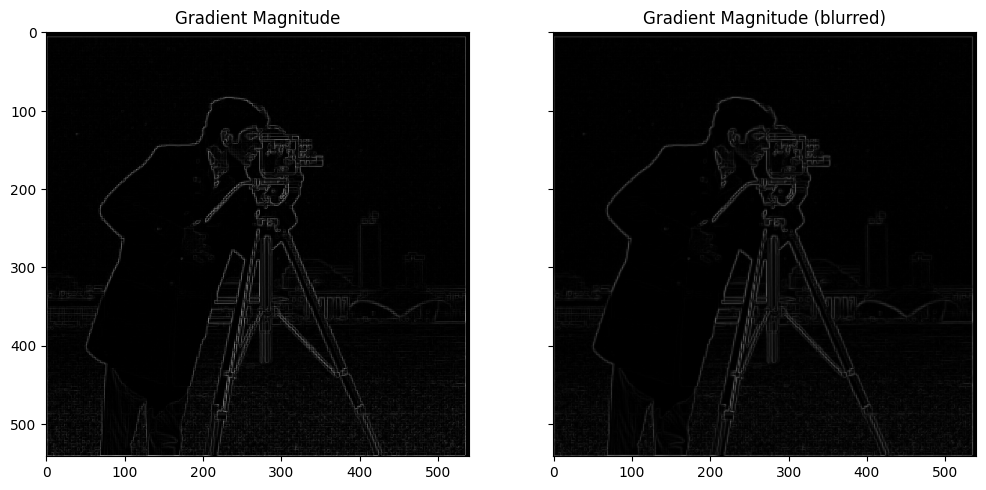
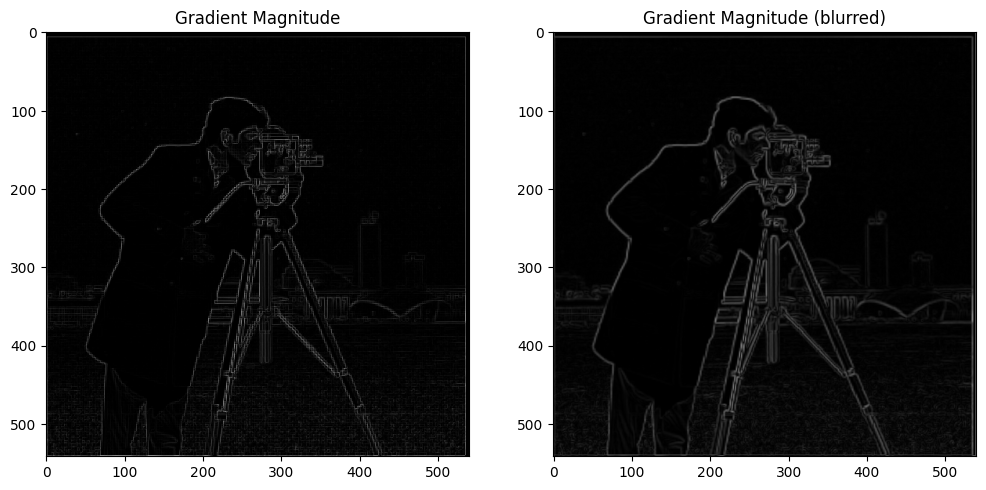
almost done 2.1

diff --git a/_site/project-2/index.html b/_site/project-2/index.html
@@ -135,9 +135,9 @@ getting the big tower in the background in the edge map.</p>
 non-threshold) is how pixelated the image is. One way to fix that while still
 retaining the edges is to run the image through a smoothing process first, then
 compute the gradient. One way to do this is to convolve the image with a <em>Gaussian
-filter</em>. To do this, I used <code class="language-plaintext highlighter-rouge">sk.filters.gaussian()</code> to generate the smoothed
-image, then ran the same convolutions as we did before. A side by side comparison is
-shown below:</p>
+filter</em>. To do this, I used <code class="language-plaintext highlighter-rouge">cv2.getGaussianFilter()</code> to get a 1D Gaussian filter
+then took the outer product with itself to generate a 2D one. Then, I ran the same
+convolutions as before, and this is what we get:</p>
 
 <p align="center">
   <img src="part-1-images/gradient-magnitude-blurred.png" />
@@ -146,8 +146,8 @@ shown below:</p>
   Gaussian filter.   </div> 
 </p>
 
-<p>It’s a little hard to see, but if you look hard enough you can tell that the
-intensity of the lines on the right image are smaller than that of the left. This
+<p>It’s difficult to see, but it is clear after staring at this image for a while that
+the intensity of the lines on the right image are smaller than that of the left. This
 makes sense, since the Gaussian basically computes an average over a window, so of
 course things will reduce in intensity. The more obvious difference between the two
 images is that the image on the right is much smoother than that on the left, and is
@@ -166,7 +166,51 @@ image is too smooth:</p>
   Gaussian filter.   </div> 
 </p>
 
-<p>We can also</p>
+<p>This method involved us making the Gaussian filter, convolving the image with it, and
+then taking two more convolutions to compute the \(\mathbf D_x\) and \(\mathbf D_y\)
+together. There’s another way we can do this, which is to first convolve the Gaussian
+with the two derivative filters, then taking the convolution along their respective
+direction. We then combine them together, and we get:</p>
+
+<p align="center">
+  <img src="part-1-images/blurred-DoG.png" />
+</p>
+<p>One thing that immediately jumped out at me was just how less intense this image was
+compared to the other one, and I can’t really explain why. In principle there
+shouldn’t be a difference between either method, but apparently that’s what we see.</p>
+
+<h3 id="image-sharpening">Image Sharpening</h3>
+
+<p>One takeaway from the recent lectures is that while images are 2-dimensional arrays,
+they are no different fundamentally from a 1D signal, and so many properties that
+apply in 1D also apply here. For instance, with a 1D audio signal it is possible to
+decompose it into a collection of sine waves, called the Fourier series. This is also
+possible in 2D, also with a collection of sine waves, one along each axis. This means
+that we can actually represent an image in frequency space! Here, a high frequency
+wave usually tends to correspond to sharp changes along a given direction.</p>
+
+<p>With this in mind, we can actually think of the Gaussian filter from the previous
+section in a different light: because its purpose is to smooth out edges, then
+consequently it also filters out high frequencies, which is also known as a low-pass
+filter. Now comes the clever bit: because we know that the Gaussian kernel is a low
+pass filter, we can <em>subtract out</em> the filtered image from the original, which
+leaves only the high frequency stuff behind. Then, we can add these high frequency
+artifacts back onto the original image, which gives us a “sharpened” version of the
+original image. Doing this with the provided <code class="language-plaintext highlighter-rouge">taj.jpg</code>, we can see the difference
+very clearly:</p>
+
+<p align="center">
+  <img src="part-2-images/taj-sharp.png" />
+</p>
+
+<p>On the right, all the little patterns on the Taj are much more intense, and in
+general all the edges present in the image seemed to have grown in intensity. You can
+also see enhancement in the tiling on the pathway below as well. All of these features
+mentioned are in the high frequencies, as their patterns are dense and complex in the
+image. Therefore, it makes natural sense that these are the features that will be
+enhanced. We were also asked to do this with an image of our choice,</p>
+
+<!-- pick one from camera lol -->
 
 
   </div>

diff --git a/_site/project-2/index.md b/_site/project-2/index.md
@@ -95,10 +95,9 @@ One thing we immediately notice about the gradient magnitude picture (threshold 
 non-threshold) is how pixelated the image is. One way to fix that while still
 retaining the edges is to run the image through a smoothing process first, then
 compute the gradient. One way to do this is to convolve the image with a *Gaussian
-filter*. To do this, I used `sk.filters.gaussian()` to generate the smoothed
-image, then ran the same convolutions as we did before. A side by side comparison is
-shown below:
-
+filter*. To do this, I used `cv2.getGaussianFilter()` to get a 1D Gaussian filter
+then took the outer product with itself to generate a 2D one. Then, I ran the same
+convolutions as before, and this is what we get: 
 
 <p align="center">
   <img src="part-1-images/gradient-magnitude-blurred.png" />
@@ -107,8 +106,8 @@ shown below:
   Gaussian filter.   </div> 
 </p>
 
-It's a little hard to see, but if you look hard enough you can tell that the
-intensity of the lines on the right image are smaller than that of the left. This
+It's difficult to see, but it is clear after staring at this image for a while that
+the intensity of the lines on the right image are smaller than that of the left. This
 makes sense, since the Gaussian basically computes an average over a window, so of
 course things will reduce in intensity. The more obvious difference between the two
 images is that the image on the right is much smoother than that on the left, and is
@@ -127,5 +126,51 @@ image is too smooth:
   Gaussian filter.   </div> 
 </p>
 
-We can also 
+This method involved us making the Gaussian filter, convolving the image with it, and
+then taking two more convolutions to compute the $$\mathbf D_x$$ and $$\mathbf D_y$$
+together. There's another way we can do this, which is to first convolve the Gaussian
+with the two derivative filters, then taking the convolution along their respective
+direction. We then combine them together, and we get:
+
+<p align="center">
+  <img src="part-1-images/blurred-DoG.png" />
+</p>
+One thing that immediately jumped out at me was just how less intense this image was
+compared to the other one, and I can't really explain why. In principle there
+shouldn't be a difference between either method, but apparently that's what we see. 
+
+
+### Image Sharpening
+
+One takeaway from the recent lectures is that while images are 2-dimensional arrays,
+they are no different fundamentally from a 1D signal, and so many properties that
+apply in 1D also apply here. For instance, with a 1D audio signal it is possible to
+decompose it into a collection of sine waves, called the Fourier series. This is also
+possible in 2D, also with a collection of sine waves, one along each axis. This means
+that we can actually represent an image in frequency space! Here, a high frequency
+wave usually tends to correspond to sharp changes along a given direction.   
+
+With this in mind, we can actually think of the Gaussian filter from the previous
+section in a different light: because its purpose is to smooth out edges, then
+consequently it also filters out high frequencies, which is also known as a low-pass
+filter. Now comes the clever bit: because we know that the Gaussian kernel is a low
+pass filter, we can *subtract out* the filtered image from the original, which
+leaves only the high frequency stuff behind. Then, we can add these high frequency
+artifacts back onto the original image, which gives us a "sharpened" version of the
+original image. Doing this with the provided `taj.jpg`, we can see the difference
+very clearly:
+
+<p align="center">
+  <img src="part-2-images/taj-sharp.png" />
+</p>
+
+On the right, all the little patterns on the Taj are much more intense, and in
+general all the edges present in the image seemed to have grown in intensity. You can
+also see enhancement in the tiling on the pathway below as well. All of these features
+mentioned are in the high frequencies, as their patterns are dense and complex in the
+image. Therefore, it makes natural sense that these are the features that will be
+enhanced. We were also asked to do this with an image of our choice, 
+
+<!-- pick one from camera lol -->
+ 
 

diff --git a/project-2/index.md b/project-2/index.md
@@ -95,10 +95,9 @@ One thing we immediately notice about the gradient magnitude picture (threshold 
 non-threshold) is how pixelated the image is. One way to fix that while still
 retaining the edges is to run the image through a smoothing process first, then
 compute the gradient. One way to do this is to convolve the image with a *Gaussian
-filter*. To do this, I used `sk.filters.gaussian()` to generate the smoothed
-image, then ran the same convolutions as we did before. A side by side comparison is
-shown below:
-
+filter*. To do this, I used `cv2.getGaussianFilter()` to get a 1D Gaussian filter
+then took the outer product with itself to generate a 2D one. Then, I ran the same
+convolutions as before, and this is what we get: 
 
 <p align="center">
   <img src="part-1-images/gradient-magnitude-blurred.png" />
@@ -107,8 +106,8 @@ shown below:
   Gaussian filter.   </div> 
 </p>
 
-It's a little hard to see, but if you look hard enough you can tell that the
-intensity of the lines on the right image are smaller than that of the left. This
+It's difficult to see, but it is clear after staring at this image for a while that
+the intensity of the lines on the right image are smaller than that of the left. This
 makes sense, since the Gaussian basically computes an average over a window, so of
 course things will reduce in intensity. The more obvious difference between the two
 images is that the image on the right is much smoother than that on the left, and is
@@ -127,5 +126,51 @@ image is too smooth:
   Gaussian filter.   </div> 
 </p>
 
-We can also 
+This method involved us making the Gaussian filter, convolving the image with it, and
+then taking two more convolutions to compute the $$\mathbf D_x$$ and $$\mathbf D_y$$
+together. There's another way we can do this, which is to first convolve the Gaussian
+with the two derivative filters, then taking the convolution along their respective
+direction. We then combine them together, and we get:
+
+<p align="center">
+  <img src="part-1-images/blurred-DoG.png" />
+</p>
+One thing that immediately jumped out at me was just how less intense this image was
+compared to the other one, and I can't really explain why. In principle there
+shouldn't be a difference between either method, but apparently that's what we see. 
+
+
+### Image Sharpening
+
+One takeaway from the recent lectures is that while images are 2-dimensional arrays,
+they are no different fundamentally from a 1D signal, and so many properties that
+apply in 1D also apply here. For instance, with a 1D audio signal it is possible to
+decompose it into a collection of sine waves, called the Fourier series. This is also
+possible in 2D, also with a collection of sine waves, one along each axis. This means
+that we can actually represent an image in frequency space! Here, a high frequency
+wave usually tends to correspond to sharp changes along a given direction.   
+
+With this in mind, we can actually think of the Gaussian filter from the previous
+section in a different light: because its purpose is to smooth out edges, then
+consequently it also filters out high frequencies, which is also known as a low-pass
+filter. Now comes the clever bit: because we know that the Gaussian kernel is a low
+pass filter, we can *subtract out* the filtered image from the original, which
+leaves only the high frequency stuff behind. Then, we can add these high frequency
+artifacts back onto the original image, which gives us a "sharpened" version of the
+original image. Doing this with the provided `taj.jpg`, we can see the difference
+very clearly:
+
+<p align="center">
+  <img src="part-2-images/taj-sharp.png" />
+</p>
+
+On the right, all the little patterns on the Taj are much more intense, and in
+general all the edges present in the image seemed to have grown in intensity. You can
+also see enhancement in the tiling on the pathway below as well. All of these features
+mentioned are in the high frequencies, as their patterns are dense and complex in the
+image. Therefore, it makes natural sense that these are the features that will be
+enhanced. We were also asked to do this with an image of our choice, 
+
+<!-- pick one from camera lol -->
+ 
 
